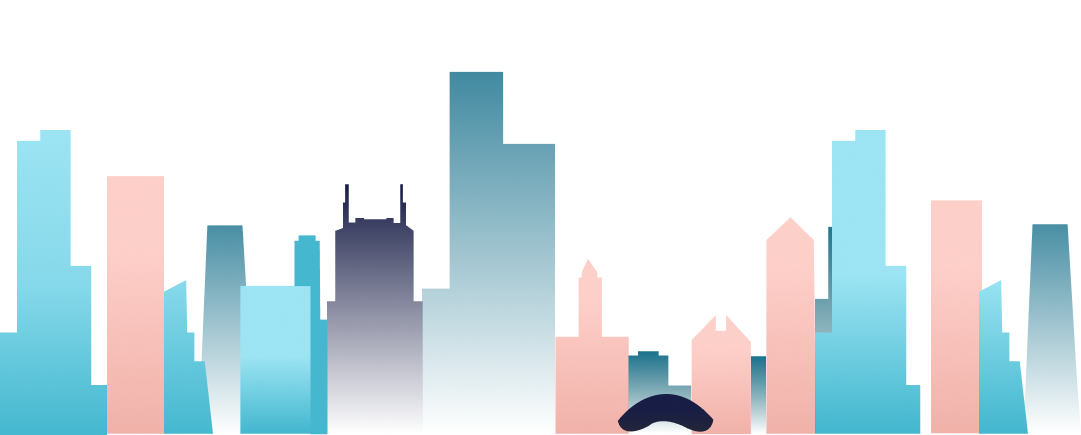
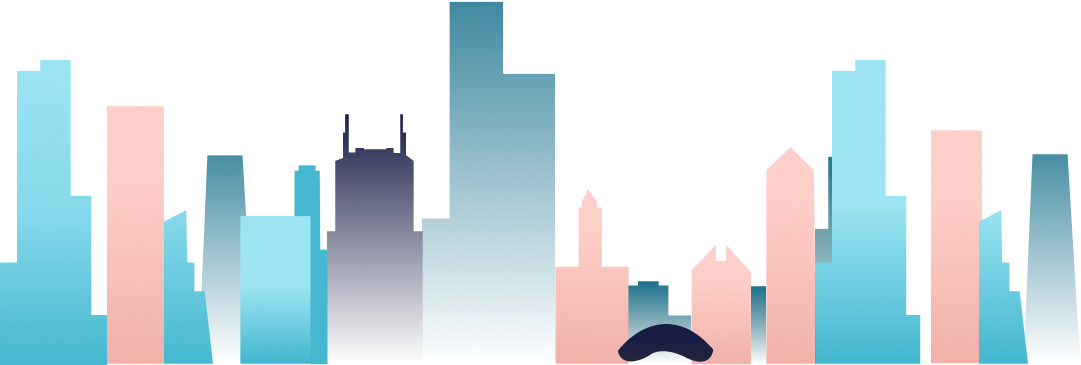
Remove register button and get involved section

diff --git a/index.html b/index.html
@@ -81,11 +81,6 @@
                 <a class="nav-link nav-button" href="#schedule">Schedule</a>
               </li>
               <li class="nav-item">
-                <a class="nav-link nav-button" href="#get_involved"
-                  >Get Involved</a
-                >
-              </li>
-              <li class="nav-item">
                 <a class="nav-link nav-button" href="#sponsors">Sponsors</a>
               </li>
               <li class="nav-item">
@@ -102,7 +97,7 @@
           class="row"
           style="margin-top: 3%; margin-left: 5%; padding-right: 5%"
         >
-          <div class="col-lg-10">
+          <div class="col-lg-9">
             <div class="row top">
               <top>Hack the Future @</top>
             </div>
@@ -113,7 +108,7 @@
               <bottom>Virtual • February 25-27, 2022</bottom>
             </div>
             <div class="row">
-              <div class="col-sm">
+              <!-- <div class="col-sm">
                 <a
                   href="https://www.eventbrite.com/e/techtogether-chicago-tickets-210142210007"
                   target="_blank"
@@ -126,7 +121,7 @@
                     REGISTER
                   </button></a
                 >
-              </div>
+              </div> -->
               <div class="col-sm">
                 <a
                   href="https://techtogether-chicago.devpost.com/"
@@ -171,7 +166,7 @@
               </div>
             </div>
           </div>
-          <div class="col-sm-2">
+          <div class="col-sm-3">
             <img
               src="assets/flying byte/ttc-byte-flying-01 1.png"
               style="position: absolute; width: max-content"
@@ -183,10 +178,11 @@
             src="assets/buildings.png"
             style="
               position: absolute;
-              top: 490px;
+              top: 67%;
               left: 0px;
-              margin-top: -110px;
-              height: 540px;
+              right: 0px;
+              margin: -110px -25px 0px -10px;
+              height: 40%;
             "
           />
         </div>
@@ -2524,7 +2520,7 @@
         </div>
       </div>
 
-      <!--Get Involved-->
+      <!-- Get Involved
       <div
         id="get_involved"
         class="row text-center justify-content-center"
@@ -2586,7 +2582,7 @@
             >
           </div>
         </div>
-      </div>
+      </div> -->
 
       <!--Sponsors-->
       <div id="sponsors" class="row text-center" style="margin-top: 10%">
